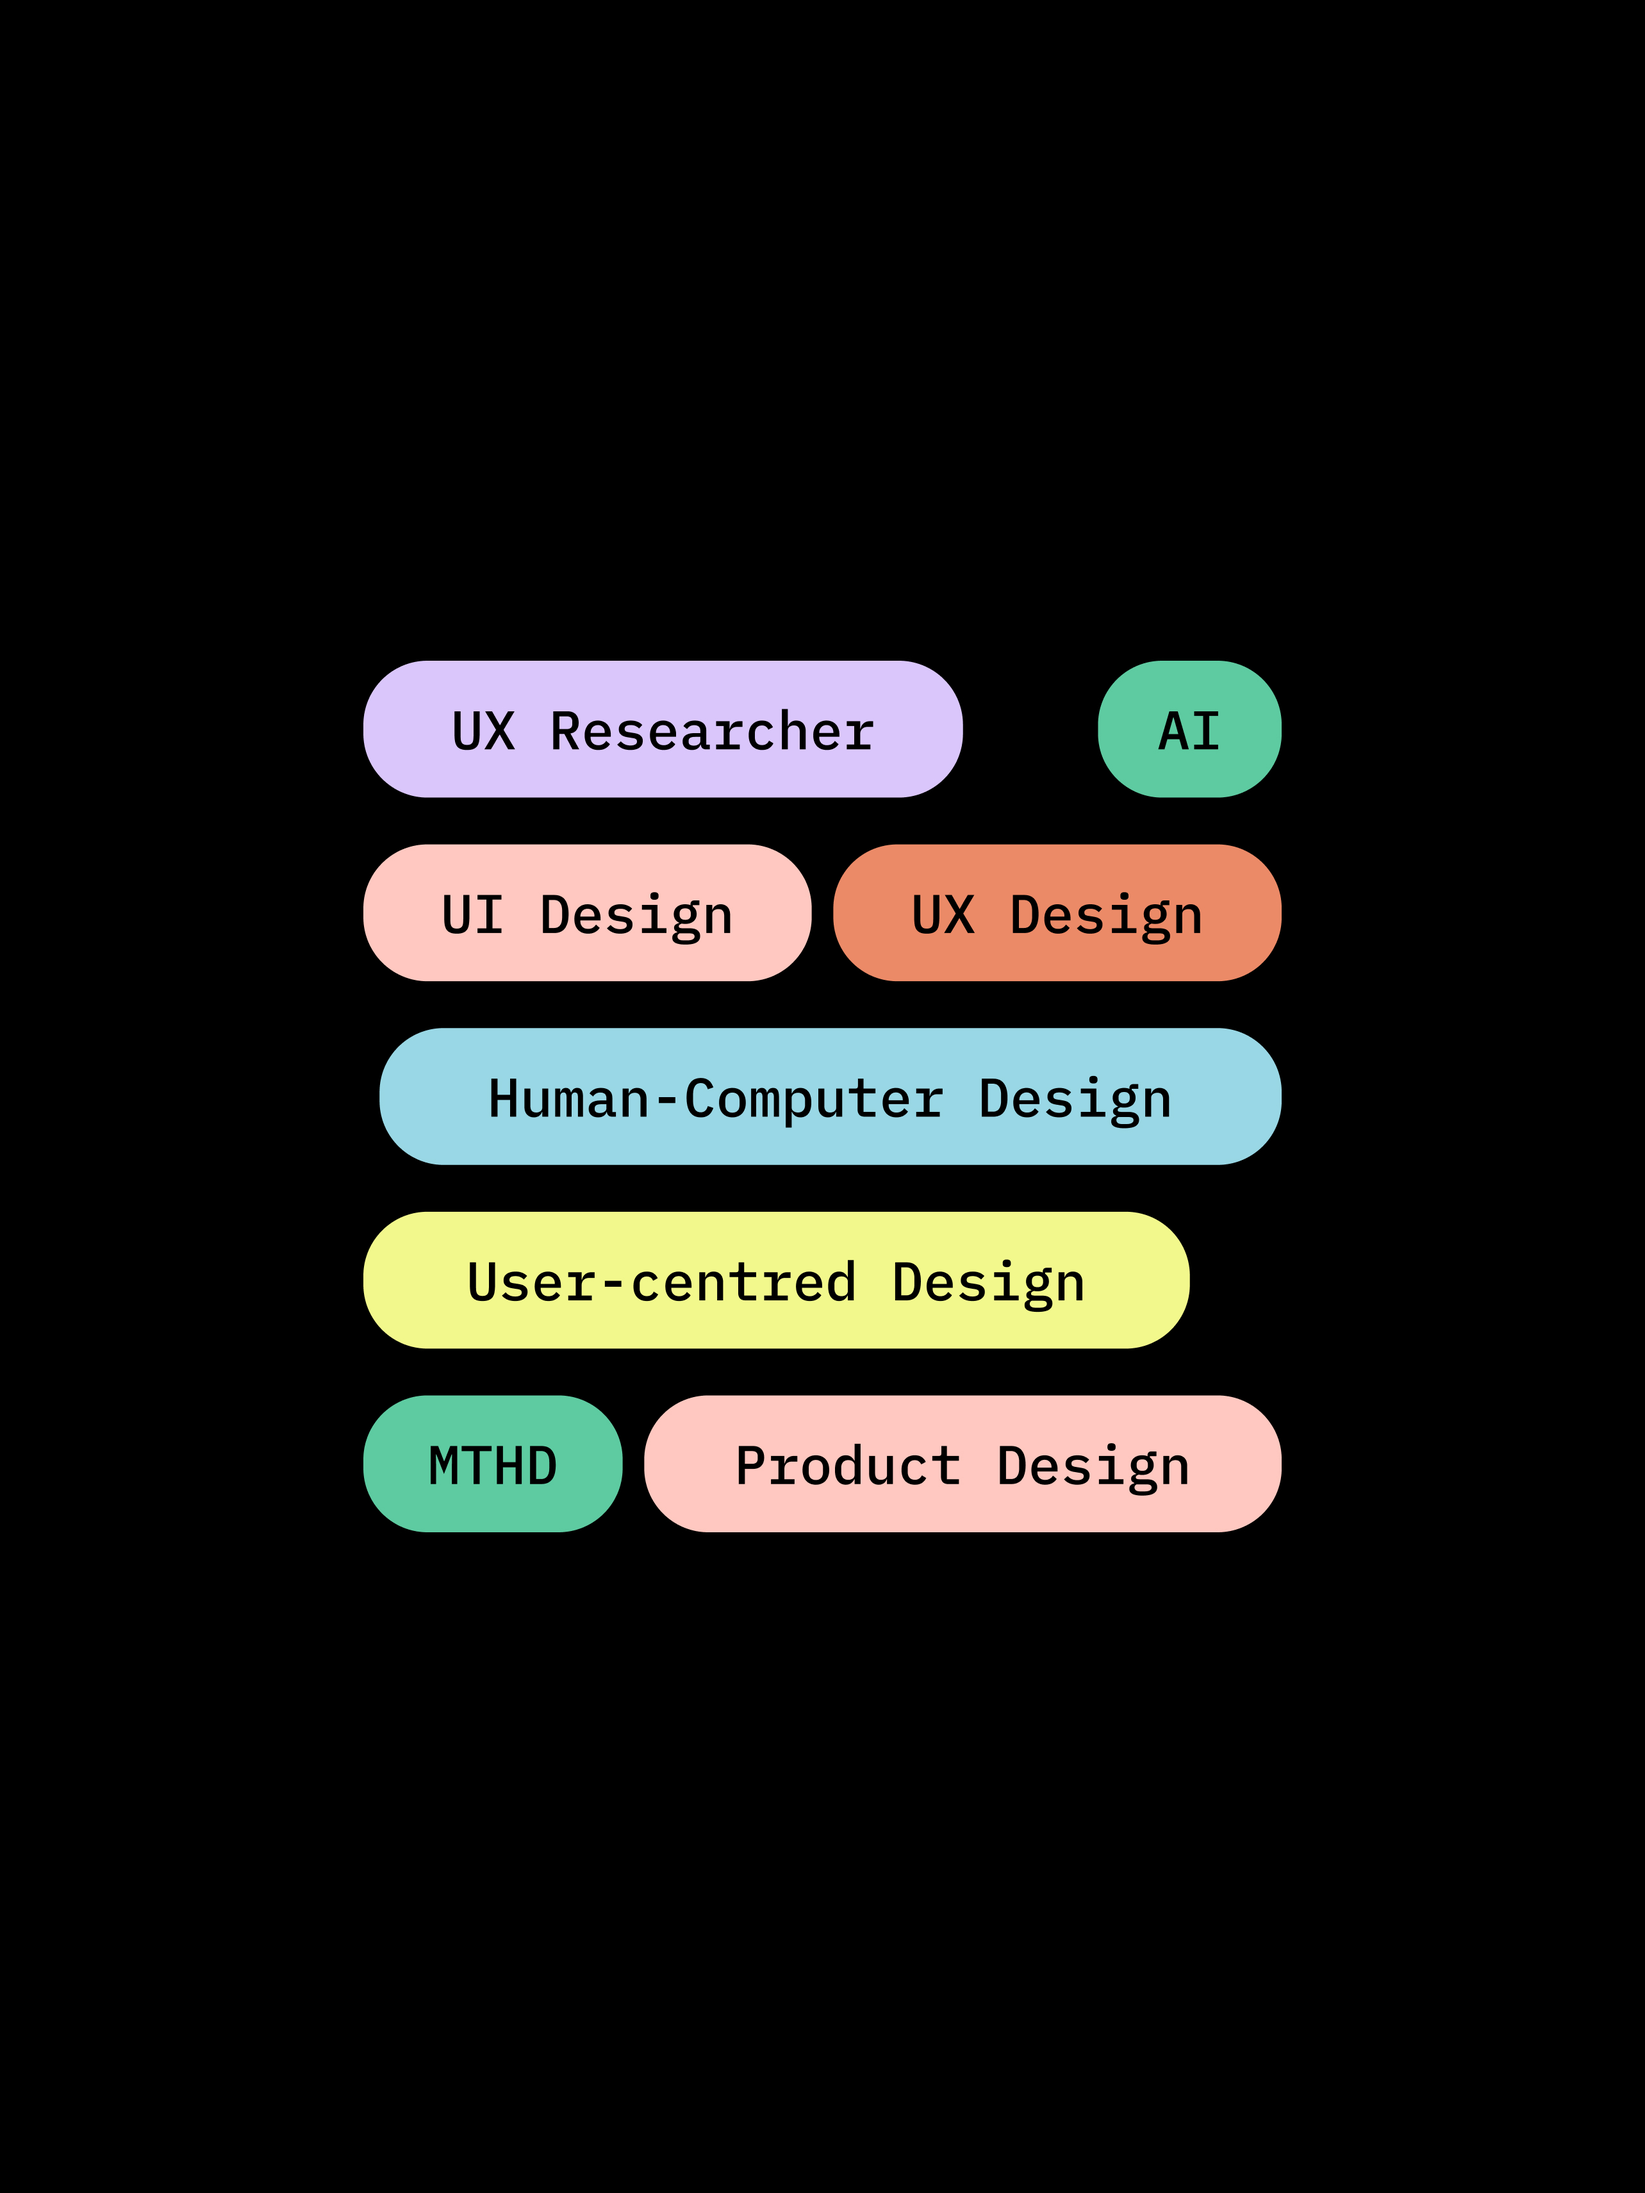
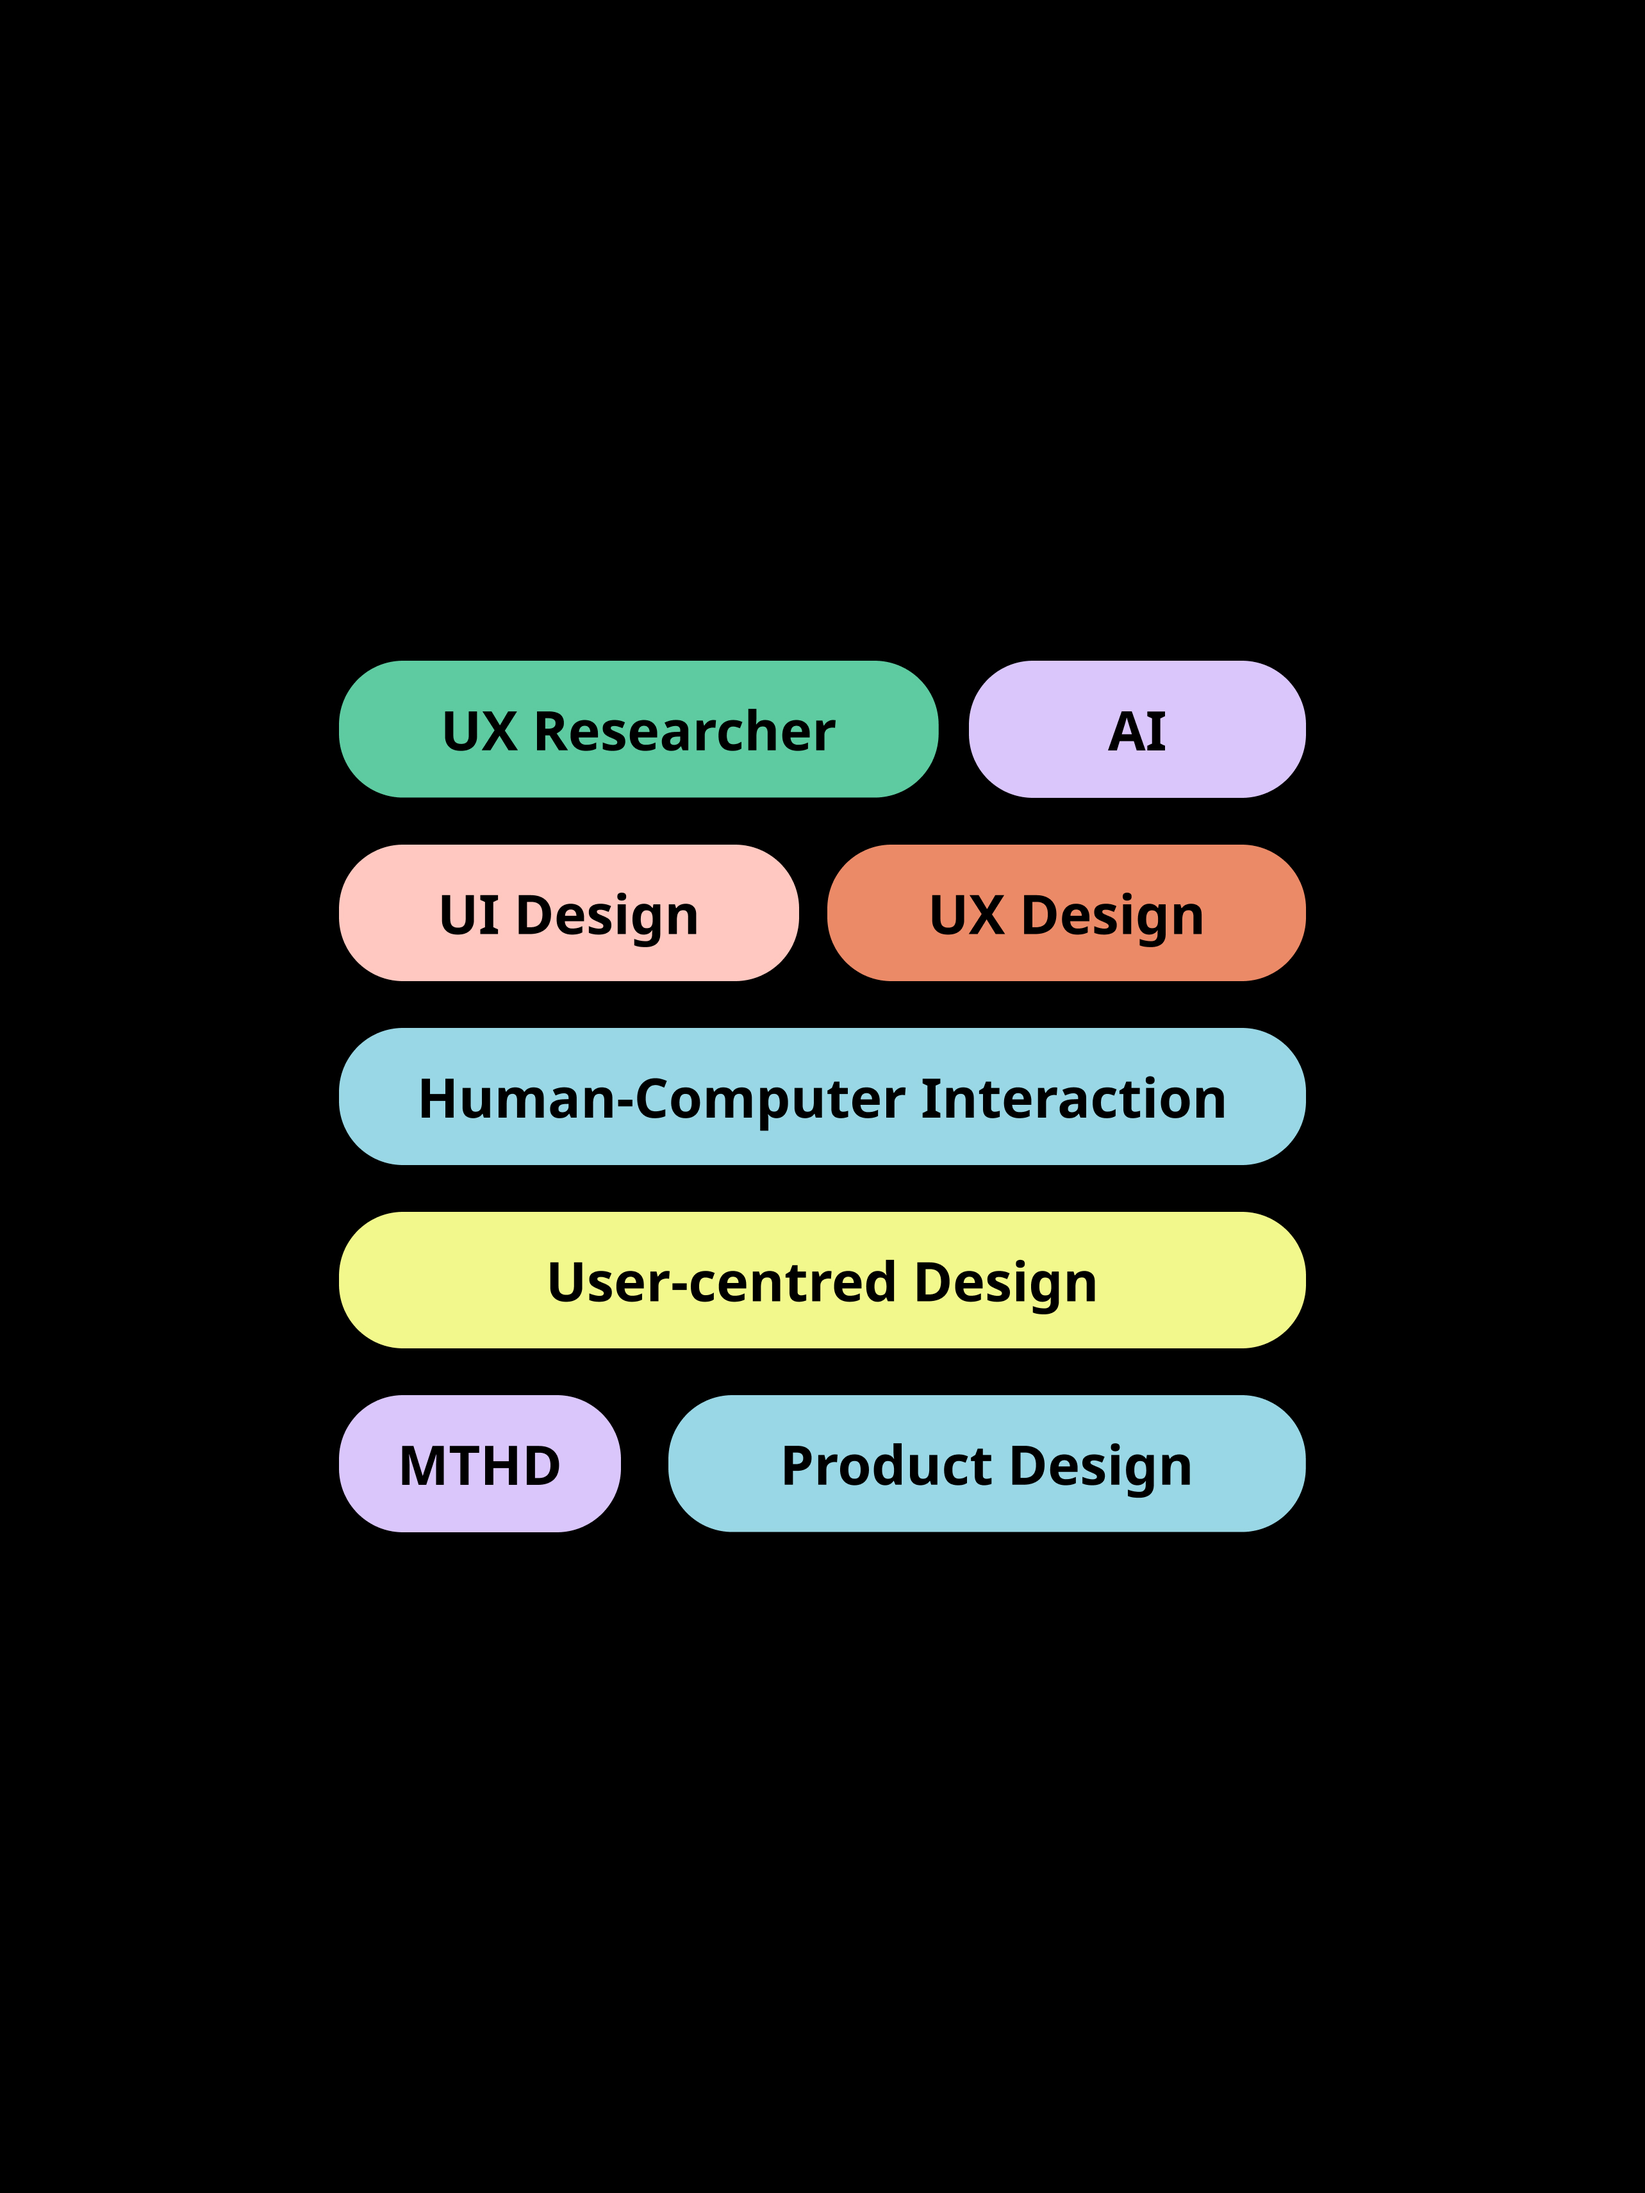
Photos and HCI label

diff --git a/Projects/FordAmigo.html b/Projects/FordAmigo.html
@@ -309,7 +309,7 @@
         <div class="badges-container">
             <span class="badge" style="background-color: #5ECBA1;">AI</span>
             <span class="badge" style="background-color: #EB8A67;">UX Design</span>
-            <span class="badge" style="background-color: #99D7E5;">Human-Computer Design</span>
+            <span class="badge" style="background-color: #99D7E5;">Human-Computer Interaction</span>
             <span class="badge" style="background-color: #F2F88C;">User-Centred Design</span>
             <span class="badge" style="background-color: #FFC8C0;">Product Design</span>
         </div>

diff --git a/Projects/Design Methods with AI.html b/Projects/Design Methods with AI.html
@@ -309,7 +309,7 @@
         <div class="badges-container">
               <span class="badge" style="background-color: #DAC6FB;">UX Research</span>
               <span class="badge" style="background-color: #5ECBA1;">AI</span>
-              <span class="badge" style="background-color: #99D7E5;">Human-Computer Design</span>
+              <span class="badge" style="background-color: #99D7E5;">Human-Computer Interaction</span>
               <span class="badge" style="background-color: #F2F88C;">User-Centred Design</span>
           </div>
       </div>

diff --git a/Projects/How might chatGPT the accessibility of quantum computing.html b/Projects/How might chatGPT the accessibility of quantum computing.html
@@ -318,7 +318,7 @@
         <div class="badges-container">
               <span class="badge" style="background-color: #DAC6FB;">UX Research</span>
               <span class="badge" style="background-color: #5ECBA1;">AI</span>
-              <span class="badge" style="background-color: #99D7E5;">Human-Computer Design</span>
+              <span class="badge" style="background-color: #99D7E5;">Human-Computer Interaction</span>
               <span class="badge" style="background-color: #F2F88C;">User-Centred Design</span>
       </div>
       </div>

diff --git a/Projects/Quantum Card Deck.html b/Projects/Quantum Card Deck.html
@@ -308,7 +308,7 @@
           <!-- Badges in linea -->
           <div class="badges-container">
                 <span class="badge" style="background-color: #DAC6FB;">UX Research</span>
-                <span class="badge" style="background-color: #99D7E5;">Human-Computer Design</span>
+                <span class="badge" style="background-color: #99D7E5;">Human-Computer Interaction</span>
                 <span class="badge" style="background-color: #F2F88C;">User-Centred Design</span>
         </div>
       </div>

diff --git a/Projects/Fundamentals to The Tree Storage.html b/Projects/Fundamentals to The Tree Storage.html
@@ -308,7 +308,7 @@
         <!-- Badges in linea -->
         <div class="badges-container">
               <span class="badge" style="background-color: #DAC6FB;">UX Research</span>
-              <span class="badge" style="background-color: #99D7E5;">Human-Computer Design</span>
+              <span class="badge" style="background-color: #99D7E5;">Human-Computer Interaction</span>
               <span class="badge" style="background-color: #5ECBA1;">MTHD</span>
       </div>
     </aside>
